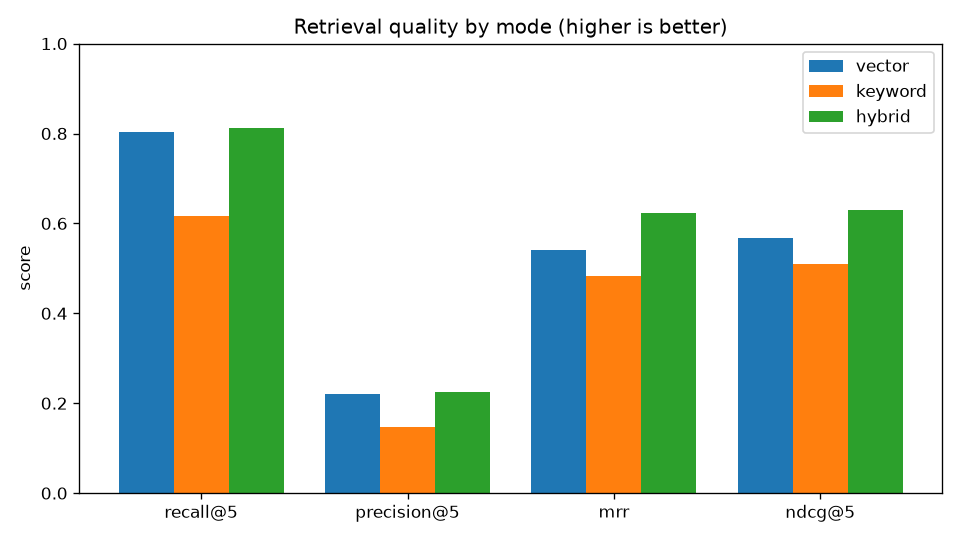
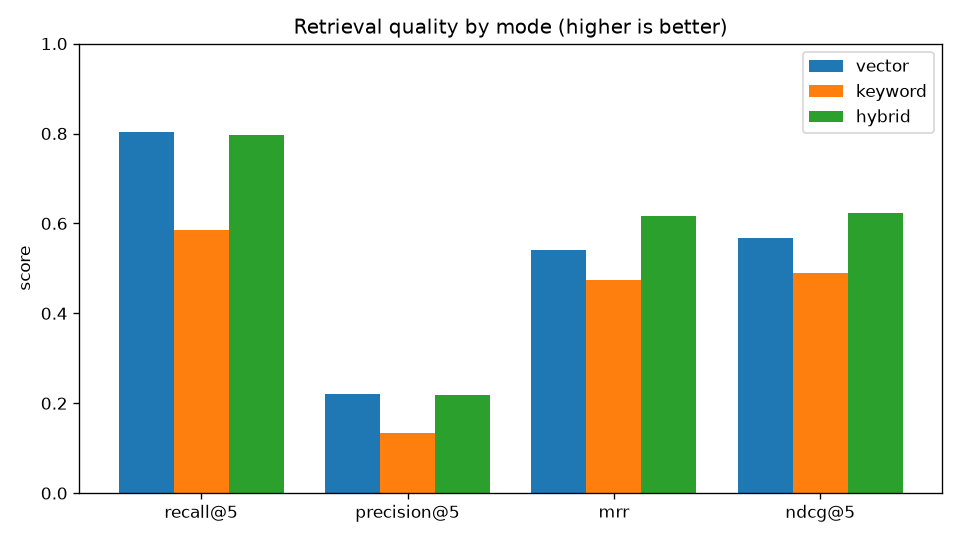
fix(retrieval): deterministic ORDER BY tiebreak (chunk_id) so eval is byte-reproducible

diff --git a/tests/integration/test_eval.py b/tests/integration/test_eval.py
@@ -37,6 +37,31 @@ def test_run_eval_scores_modes_and_hybrid_is_competitive(conn):
     assert retrieval["hybrid"]["recall@5"] >= min(single)
 
 
+def test_retrieval_is_insensitive_to_corpus_insertion_order(conn):
+    """Ranking must not depend on physical heap order. The eval DELETEs and
+    re-INSERTs the corpus every run, so any ORDER BY that leaves ties to heap
+    position drifts run-to-run (the non-determinism this guards against). Indexing
+    the same corpus in two different orders must yield byte-identical rankings."""
+    pytest.importorskip("sentence_transformers")
+    from freshet.eval import modes, run_eval
+    from freshet.eval.labeled import build_labeled_queries
+    from freshet.pipeline.embedding import make_embedder
+
+    emb = make_embedder("bge")
+    corpus, truths = run_eval.build_benchmark(seed=1, n_incidents=8)
+    queries = build_labeled_queries(corpus, truths)
+
+    run_eval.index_corpus(conn, emb, corpus)
+    forward = {q.text: modes.keyword_only_event_ids(conn, q.text, run_eval.K)
+               for q in queries}
+
+    run_eval.index_corpus(conn, emb, list(reversed(corpus)))
+    reversed_order = {q.text: modes.keyword_only_event_ids(conn, q.text, run_eval.K)
+                      for q in queries}
+
+    assert forward == reversed_order
+
+
 def test_staleness_model_batch_is_staler():
     from freshet.eval import run_eval
 

diff --git a/freshet/api/retrieval.py b/freshet/api/retrieval.py
@@ -29,10 +29,13 @@ def _where(service: Optional[str], since: Optional[datetime]) -> str:
 
 
 def vector_sql(service: Optional[str], since: Optional[datetime]) -> str:
+    # chunk_id breaks distance ties deterministically: without it, tied rows come
+    # back in physical heap order, which shifts run-to-run (the eval DELETEs and
+    # re-INSERTs every run) and makes the benchmark non-reproducible.
     return (
         f"SELECT {_COLS}, 1 - (embedding <=> %(qvec)s::vector) AS similarity"
         " FROM vector_records" + _where(service, since) +
-        " ORDER BY embedding <=> %(qvec)s::vector LIMIT %(k)s"
+        " ORDER BY embedding <=> %(qvec)s::vector, chunk_id LIMIT %(k)s"
     )
 
 
@@ -51,11 +54,14 @@ def keyword_sql(service: Optional[str], since: Optional[datetime]) -> str:
     where = _where(service, since)
     match = f"text_tsv @@ {_OR_TSQUERY}"
     where = (where + " AND " + match) if where else (" WHERE " + match)
+    # ts_rank produces many ties across terse operational events, so rank alone
+    # leaves the order to physical heap position (non-reproducible run-to-run).
+    # chunk_id is the deterministic tiebreak that makes the benchmark byte-stable.
     return (
         f"SELECT {_COLS},"
         f" ts_rank(text_tsv, {_OR_TSQUERY}) AS rank"
         " FROM vector_records" + where +
-        " ORDER BY rank DESC LIMIT %(k)s"
+        " ORDER BY rank DESC, chunk_id LIMIT %(k)s"
     )
 
 

diff --git a/RESULTS.md b/RESULTS.md
@@ -28,17 +28,27 @@ instruction prefix included):
 
 | mode | recall@5 (MiniLM → bge) | nDCG@5 (MiniLM → bge) |
 |---|---|---|
-| keyword-only | 0.609 → 0.616 | 0.502 → 0.510 |
+| keyword-only | 0.609 → 0.584 | 0.502 → 0.490 |
 | vector-only | 0.672 → **0.803** (+0.13) | 0.517 → 0.567 |
-| **hybrid** | 0.697 → **0.812** (+0.12) | 0.535 → **0.631** (+0.10) |
+| **hybrid** | 0.697 → **0.797** (+0.10) | 0.535 → **0.624** (+0.09) |
 
 Honest read: bge is a large, real win on the embedding-dependent arms — hybrid
-recall@5 **0.70 → 0.81** and nDCG@5 **0.54 → 0.63**. Keyword-only barely moves
-(+0.006 ≈ one query of SQL tie-order noise); it uses no embeddings, so that is
-expected. The MiniLM column is a frozen snapshot of the prior committed run
-(`results/retrieval_metrics_minilm.json`) — the pgvector column is a fixed
-dimension, so 384-dim and 768-dim models cannot index into the same DB; only the
-bge "after" is run live. Reproduce: `make up && make embedding-compare`.
+recall@5 **0.70 → 0.80** and nDCG@5 **0.54 → 0.62**, vector recall@5 **0.67 →
+0.80**. Keyword-only uses no embeddings, so its recall is fixed by the corpus,
+the queries, and the tie-break — the MiniLM→bge delta there (0.609 → 0.584) is
+**not** an embedding effect but the SQL tie-order noise this benchmark used to
+carry: the keyword arm's `ts_rank` produces many ties, and until a deterministic
+`ORDER BY … , chunk_id` tiebreak was added they resolved by physical heap order,
+so each run (the eval DELETEs and re-INSERTs the corpus) drew a slightly
+different number. That is now pinned — re-running yields byte-identical JSON (see
+M12). On recall@5, hybrid (0.797) and vector (0.803) are a **statistical dead
+heat** — within one query of each other — but hybrid decisively wins **nDCG@5
+(0.624 vs 0.567)** and MRR (0.616 vs 0.541): it ranks the relevant events higher
+even when the retrieved set is comparable. The MiniLM column is a frozen snapshot
+of the prior committed run (`results/retrieval_metrics_minilm.json`), taken
+before the tiebreak fix; the pgvector column is a fixed dimension, so 384-dim and
+768-dim models cannot index into the same DB, and only the bge "after" is run
+live. Reproduce: `make up && make embedding-compare`.
 
 **Query transformation — LLM multi-query.** An LLM rewrites the question into
 paraphrases; each is retrieved and the results are RRF-fused. Measured single-vs-
@@ -106,8 +116,10 @@ archetypes** (deploy regression, config change, dependency outage, resource
 exhaustion, cert expiry, bad migration). Ground truth (each incident's spike,
 cause, and fix event) is authored *with the corpus*, and ~160 labeled retrieval
 queries are **auto-derived** from it — so the numbers are not hand-picked to
-flatter. Recency decay is disabled in eval (`tau≈∞`) so every figure is
-deterministic; re-running produces byte-identical JSON.
+flatter. Recency decay is disabled in eval (`tau≈∞`) and both retrieval arms
+break score ties on `chunk_id` (so tied rows never fall back to non-deterministic
+physical heap order), making every figure deterministic; re-running produces
+byte-identical JSON regardless of `PYTHONHASHSEED`.
 
 Reproduce: `make up && make eval && make rootcause-eval`.
 